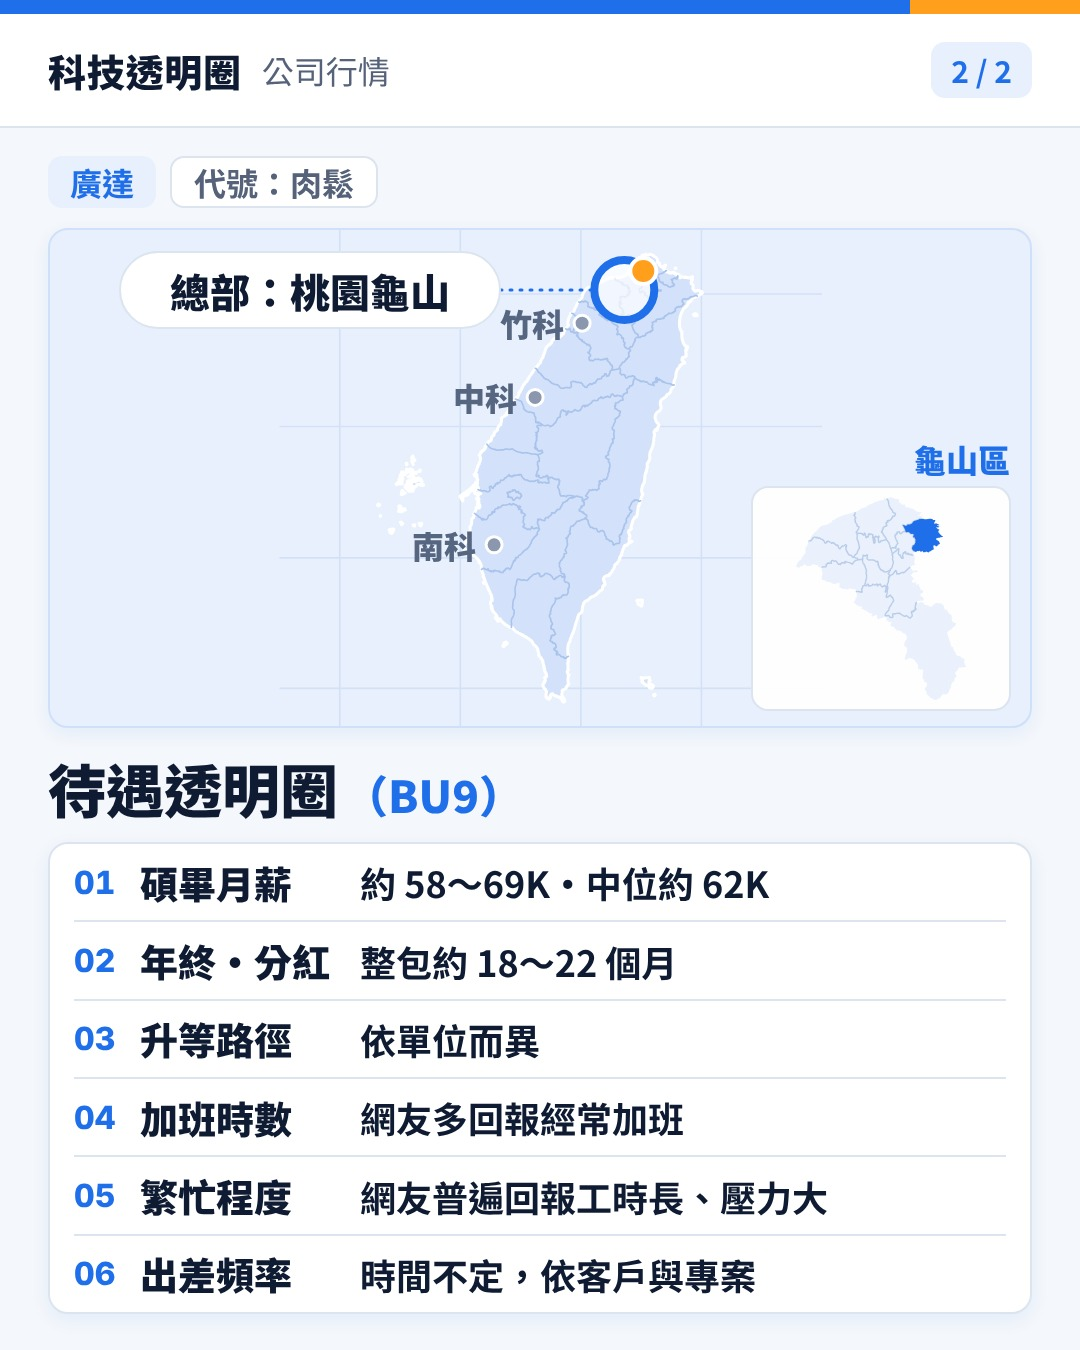
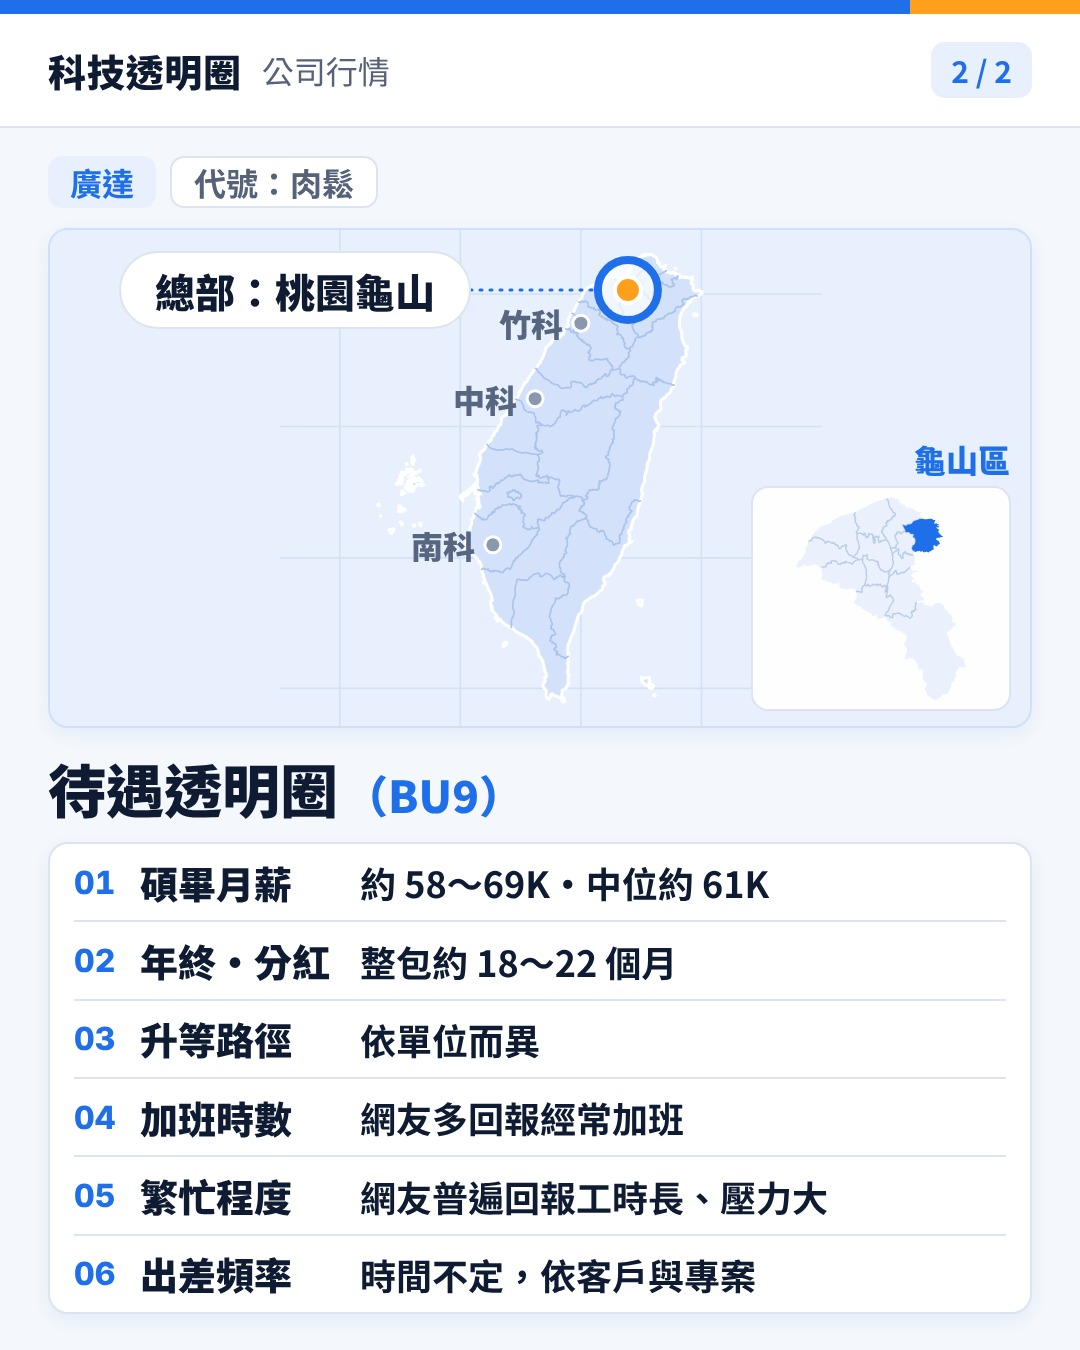
頻道② 廣達：口徑定案（中位 61K、加班排除重複 165 筆／57%）改 ig.txt、threads.txt 與私訊重點；設計總監重出 2_fields.jpg（地圖點位經緯度投影＋61K）；post.md 檢查清單更新
Claude-Session: https://claude.ai/code/session_018gakVRNRsek4G6osuECGNS

diff --git a/social/tc/queue/20261105_quanta/post.md b/social/tc/queue/20261105_quanta/post.md
@@ -16,7 +16,10 @@ source_branch: tc/post-quanta 7b2841539（docs/marketing/channels/tc/posts/20261
 - 文案：ig.txt、threads.txt 原樣取自 tc/post-quanta 分支最新版（commit 7b2841539）。
 
 ## 核准前還沒完成的事（來源：分支上的 legal_review.md、image_sources.md）
-1. 封面照片（Andy 11-06 提供的廣達總部照）還沒經 art-director 審。
+1. 美編審查（ai_review.md，2026-11-08，結論退回兩項）：
+   - 退回第 1 項：封面照片解析度不足 → **待 Andy 提供原圖**（官網原檔，寬 ≥ 1032px）。
+   - 退回第 2 項：地圖點位 → **已修，經緯度投影換算**（2026-11-09 設計總監重出 2_fields.jpg，同時改 61K）。
 2. 封面照片原始網址待 Andy 確認（文案寫「待確認原始頁面」）。
-3. 法遵要求的資料口徑重算：**已重算（2026-11-09）**，crosscheck.md 已在 tc/post-quanta 更正（commit 4e63893ac）。21 筆、2025～2026、整包 17 筆、加班 171 筆／58%／週工時中位 48 核對無誤；**只有「中位約 62K」重算為 61K**（出現在 ig.txt、threads.txt 主文、第 2 張圖），改不改字**待 CEO 決定**，佇列稿與圖先沒動。
+3. ~~法遵要求的資料口徑重算~~ **已完成（2026-11-09 CEO 定案）**：全部採 D 篩選＋排除重複。ig.txt、threads.txt（主文與第 1 則留言）已改：中位約 62K → 61K、加班 171 筆 → 165 筆、58% → 57%（週工時中位 48 不變）；Threads 主文 494 字。crosscheck.md 在 tc/post-quanta 更正（commit 2bb406fc5）。第 2 張圖（2_fields.jpg）已由設計總監重出（61K＋地圖修正），已 commit。
 4. ~~Threads 主文超長~~ **已處理（2026-11-09）**：threads.txt 主文刪掉 4 個裝飾表情符號（🥩、😂、🖥、👇），數字與聲明一字未動；現在 494 字（同一套算法，上限 500），格式檢查通過。ig.txt 沒動。佇列這份 threads.txt 已和 tc/post-quanta 分支版本不同，以佇列為準。
+5. **待確認**：新版第 2 張圖的表頭寫「待遇透明圈（BU9）」。crosscheck.md 與法遵審查都寫過「文案一律改『伺服器事業群』、不用內部代號（BU9）」，圖上這個代號要不要拿掉，請 CEO／法遵決定。
